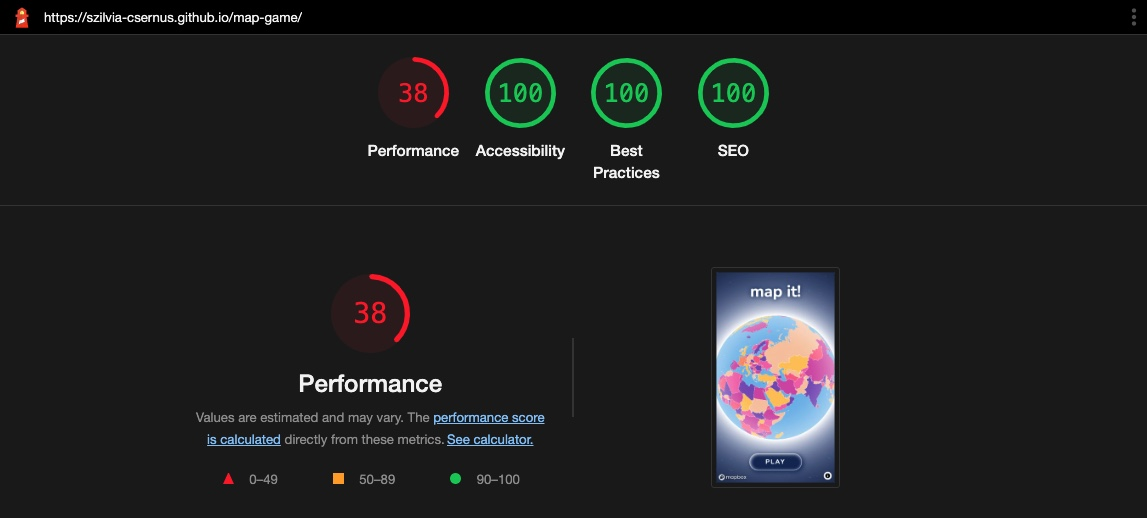
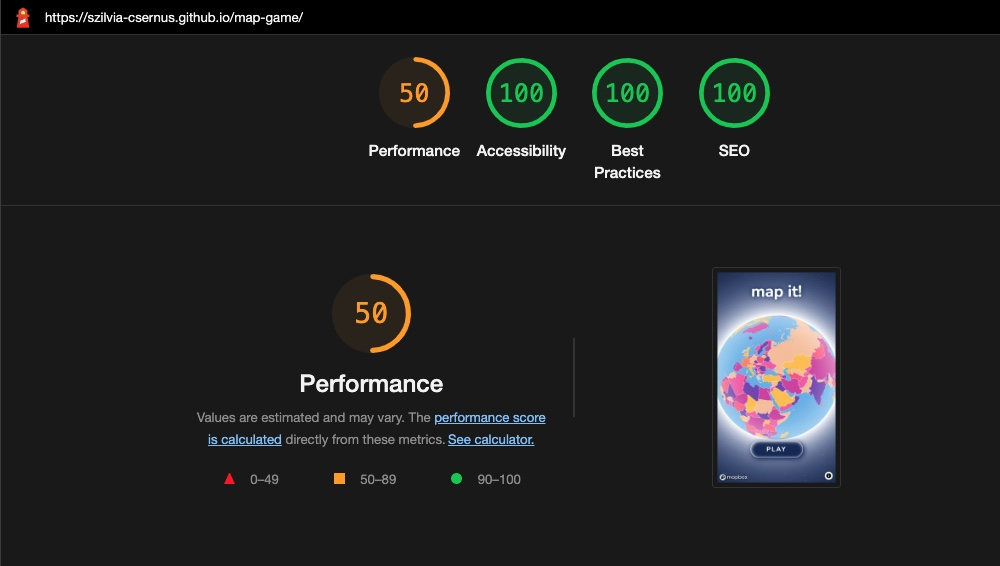
add manual testing and lighthouse scores

diff --git a/TESTING.md b/TESTING.md
@@ -90,31 +90,82 @@
 ![visual-impairment-7](testing-images/visual-impairment-7.jpeg)
 ![visual-impairment-8](testing-images/visual-impairment-8.jpeg)
 
+<br><br>
 
-# Test Cases
-
-## Functionality
-
-## Appearence
-
-## Touch functions
-
-## Mouse functions
-
-## Performance
+# Manual Test Cases
 
 
-# Browser Tests
+| Test case code | load | click PLAY | click Exit | click Info | click any region | select any country 10x | select any country 5x | click Exit | click Info | click high scores | click New Game |
+| :---: | :---: | :---: | :---: | :---: | :---: | :---: | :---: | :---: | :---: | :---: | :---: |
+| 001 | &check; | &check; | | | &check; | &check; | | | &check; | &check; | &check; |
+| 002 | &check; | &check; | | | &check; | | &check; | | &check; | | |
+| 003 |  | &check; | | | &check; | | &check; |  &check; | | | | 
+| 004 |  | &check; | &check; | | | | | | | | | | | | | 
+| 005 | | &check; | | | &check; | | | &check; | | | |
+| 006 |  | &check; | | | &check; | | | | &check; | | |
+| 007 | &check; | &check; | | &check; | | | | | 
 
+<br><br>
 
-| Browser | Version | Expected Behaviour |
-| :---: | :---: | :---: |
-| Chrome | 108.0.5359.124 |  &check; |
-| Chrome | 109.0.5414.83 |  &check; |
-| Safari | 15.6.1 | &check; |
-| Safari | iOS 16.1.1 | &check; |
-| Firefox | 108.1 (24234) |  &check; |
-| Edge | 108.0.1462.62 | &check; |
+| Browser | Version | Test case | Expected look | Expected behaviour | Additional notes |
+| :---: | :---: | :---: | :---: | :---: | :---: | 
+| Chrome | 111.0.5563.110 | 001 | &check; | &check; | | 
+||| 002 |  &check; | &check; | |
+||| 003 |  &check; | &check; | |
+||| 004 |  &check; | &check; | |
+||| 005 |  &check; | &check; | |
+||| 006 |  &check; | &check; | |
+||| 007 |  &check; | &check; | |
+
+<br><br>
+
+| Browser | Version | Test case | Expected look | Expected behaviour | Additional notes |
+| :---: | :---: | :---: | :---: | :---: | :---: | 
+| Safari | 15.6.1 | 001 | &check; | &check; | High scores OK button hover state is different. | 
+||| 002 |  &check; | &check; | High scores OK button hover state is different. |
+||| 003 |  &check; | &check; | |
+||| 004 |  &check; | &check; | |
+||| 005 |  &check; | &check; | |
+||| 006 |  &check; | &check; | |
+||| 007 |  &check; | &check; | |
+
+<br><br>
+
+| Browser | Version | Test case | Expected look | Expected behaviour | Additional notes |
+| :---: | :---: | :---: | :---: | :---: | :---: | 
+| Safari | iOS 16.3.1 | 001 | &check; | &check; | | 
+||| 002 |  &check; | &check; | |
+||| 003 |  &check; | &check; | |
+||| 004 |  &check; | &check; | |
+||| 005 |  &check; | &check; | |
+||| 006 |  &check; | &check; | |
+||| 007 |  &check; | &check; | |
+
+<br><br>
+
+| Browser | Version | Test case | Expected look | Expected behaviour | Additional notes |
+| :---: | :---: | :---: | :---: | :---: | :---: | 
+| Firefox | 111.1 (29556) | 001 | &check; | &check; | | 
+||| 002 |  &check; | &check; | |
+||| 003 |  &check; | &check; | |
+||| 004 |  &check; | &check; | |
+||| 005 |  &check; | &check; | |
+||| 006 |  &check; | &check; | |
+||| 007 |  &check; | &check; | |
+
+<br><br>
+
+| Browser | Version | Test case | Expected look | Expected behaviour | Additional notes |
+| :---: | :---: | :---: | :---: | :---: | :---: | 
+| Edge | 111.0.1661.50 | 001 | &check; | &check; | | 
+||| 002 |  &check; | &check; | |
+||| 003 |  &check; | &check; | |
+||| 004 |  &check; | &check; | |
+||| 005 |  &check; | &check; | |
+||| 006 |  &check; | &check; | |
+||| 007 |  &check; | &check; | |
+
+<br><br>
 
 - - -
 <br><br>
@@ -143,9 +194,6 @@ Responsiveness was tested using [Google Dev Tools](https://developer.chrome.com/
 - - -
 <br><br>
 
-
-# Accessibility tests
-
 <br><br>
 
 # Lighthouse tests
@@ -156,13 +204,13 @@ Results:
 
 | Device | Result | 
 | :---: | :---: |
-| Mobile |  ![Result-mobile]()|
-| Desktop | ![Result-desktop]()|
+| Mobile |  ![Result-mobile](testing-images/lighthouse-mobile.jpeg)|
+| Desktop | ![Result-desktop](testing-images/lighthouse-desktop.jpeg)|
 
 
-The lower performance scores were mainly caused by the way Bootstrap loads before the first render:
+The lower performance scores are caused by the Mapbox GL JS API's loading time:
 
-![bootstrap-performance-issue](assets/images/testing-images/bootstrap-issue.jpeg)
+![performance-issue](testing-images/lighthouse-mobile-error.jpeg)
 - - -
 <br><br>
 
